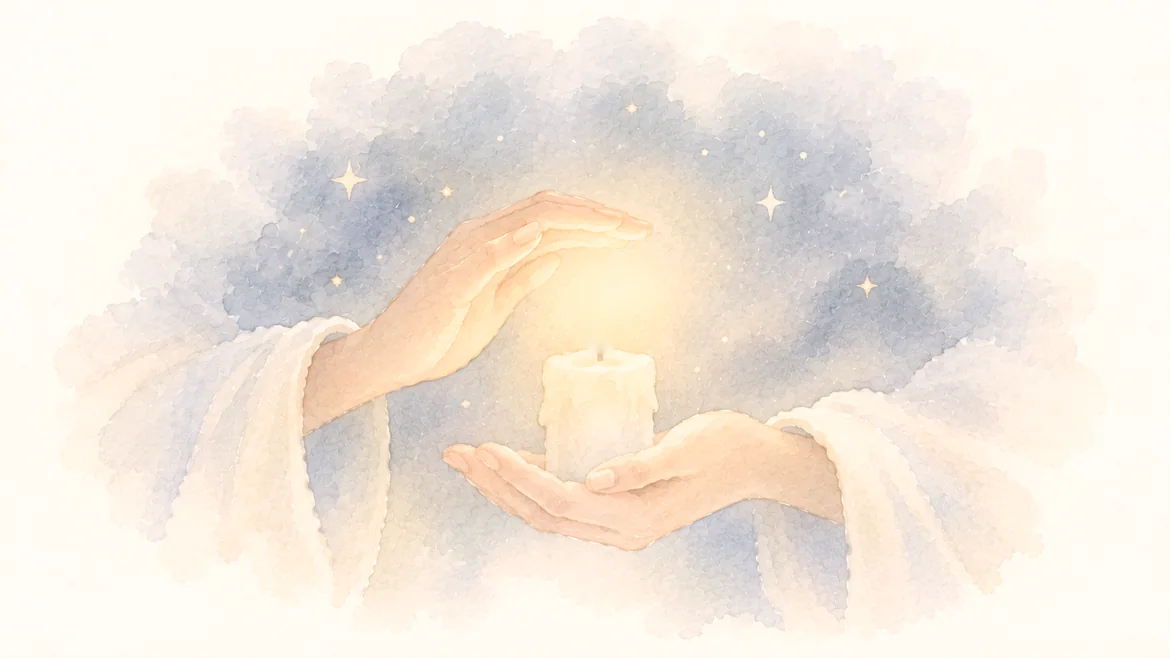
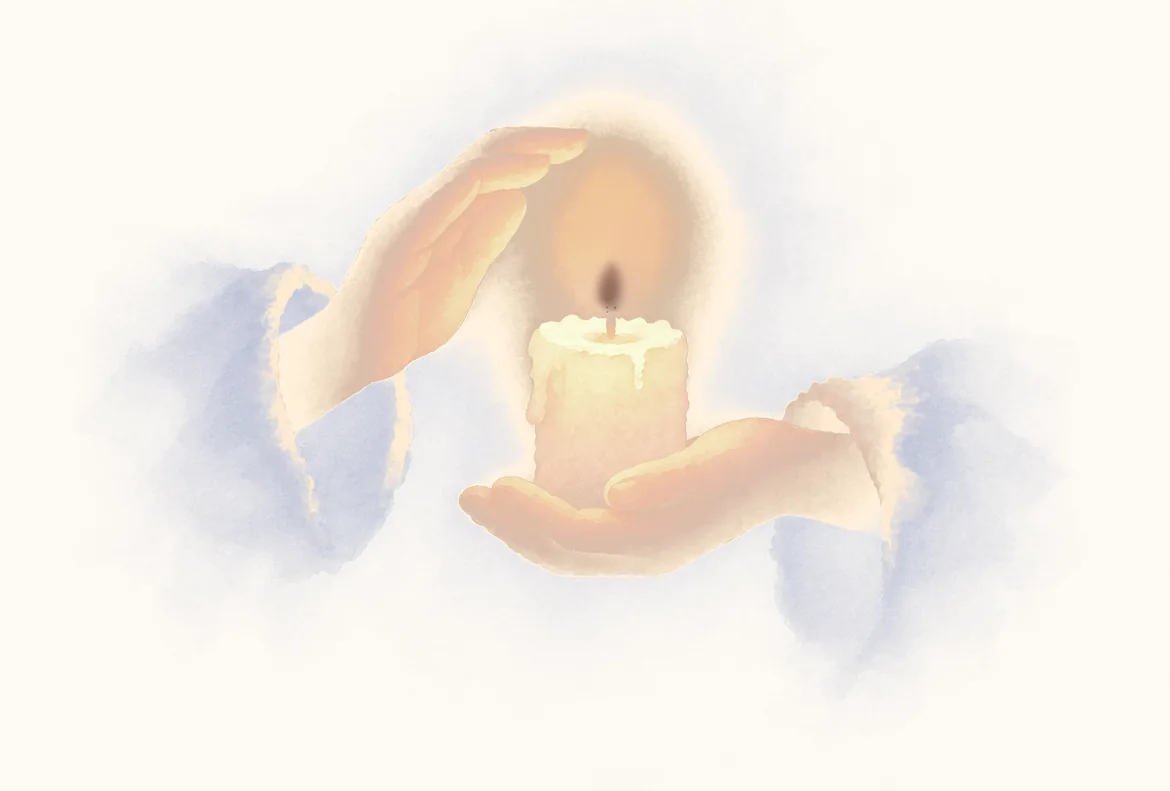
Bougie : même dessin le jour et le soir (version claire de l'illustration du soir : fond crème, robe bleu brume)
Claude-Session: https://claude.ai/code/session_0196ydQFmaQnBobAw6Q2y82i

diff --git a/src/css/app.css b/src/css/app.css
@@ -416,8 +416,7 @@ h2 { margin: 0 0 8px; font-weight: 300; font-size: clamp(22px, 7vw, 28px); line-
 @keyframes v-brise { from { transform: skewX(-1.6deg); } to { transform: skewX(1.9deg); } }
 @keyframes v-brise-rond { from { transform: skewX(-1.2deg) scaleX(.995); } to { transform: skewX(1.4deg) scaleX(1.008); } }
 /* La bougie : l'image entière, plus fondue sur les côtés ; la flamme vacille depuis la mèche, son halo respire. */
-.respiration.bougie { aspect-ratio: 1672 / 941; margin-top: 4px; }
-.respiration.bougie.nuit { aspect-ratio: 1213 / 820; }
+.respiration.bougie { aspect-ratio: 1213 / 820; margin-top: 4px; }
 .b-flamme { position: absolute; animation: b-balance 5.3s ease-in-out infinite; }
 .b-flamme img { display: block; width: 100%; height: 100%; animation: b-fremit 1.9s ease-in-out infinite; }
 /* Une flamme dans l'air calme : un lent balancement, et de petits frémissements irréguliers qui l'étirent et l'affinent. */
@@ -428,7 +427,7 @@ h2 { margin: 0 0 8px; font-weight: 300; font-size: clamp(22px, 7vw, 28px); line-
   background: radial-gradient(circle, rgba(255,214,150,.55) 0%, rgba(255,200,130,.22) 35%, rgba(255,200,130,0) 70%); animation: b-respire 1.9s ease-in-out infinite; }
 .bougie.nuit .b-halo { mix-blend-mode: screen; width: 60%; animation: b-respire 1.9s ease-in-out infinite; }
 .bougie.jour .b-halo { animation: b-respire 1.9s ease-in-out infinite; }
-.bougie.jour .b-halo { width: 72%; background: radial-gradient(circle, rgba(255,236,190,.85) 0%, rgba(255,206,130,.42) 22%, rgba(250,196,120,.16) 45%, rgba(250,196,120,0) 70%); }
+.bougie.jour .b-halo { width: 60%; background: radial-gradient(circle, rgba(255,236,190,.85) 0%, rgba(255,206,130,.42) 22%, rgba(250,196,120,.16) 45%, rgba(250,196,120,0) 70%); }
 @keyframes b-respire { 0%, 100% { opacity: .7; } 13% { opacity: .8; } 21% { opacity: .64; } 34% { opacity: .76; } 46% { opacity: .7; } 58% { opacity: .85; } 66% { opacity: .62; } 79% { opacity: .74; } 90% { opacity: .68; } }
 
 /* De jour : deux moineaux peints, sur un cycle de 22 s. Vol de moineau : trois battements rapides, puis ailes

diff --git a/src/js/app.js b/src/js/app.js
@@ -347,7 +347,7 @@
     var nuit = estNuit(), m = nuit ? 'nuit' : 'jour';
     // La flamme est détourée à part (le fond de l'image a été comblé dessous) : elle se balance depuis la mèche et frémit,
     // et sa lumière respire au même rythme.
-    var f = nuit ? { l: 47.16, t: 16.95, w: 10.31, h: 23.05, oy: 88.4 } : { l: 47.85, t: 37.09, w: 6.88, h: 17.32, oy: 86.5 };
+    var f = { l: 47.16, t: 16.95, w: 10.31, h: 23.05, oy: 88.4 }; // même dessin le jour et le soir
     return '<div class="respiration bougie ' + m + '" aria-hidden="true"><img src="img/bougie-' + m + '.webp" alt="" decoding="async">' +
       '<span class="b-halo" style="left:' + (f.l + f.w / 2).toFixed(2) + '%;top:' + (f.t + f.h * .55).toFixed(2) + '%"></span>' +
       '<span class="b-flamme" style="left:' + f.l + '%;top:' + f.t + '%;width:' + f.w + '%;height:' + f.h + '%;transform-origin:50% ' + f.oy + '%">' +
